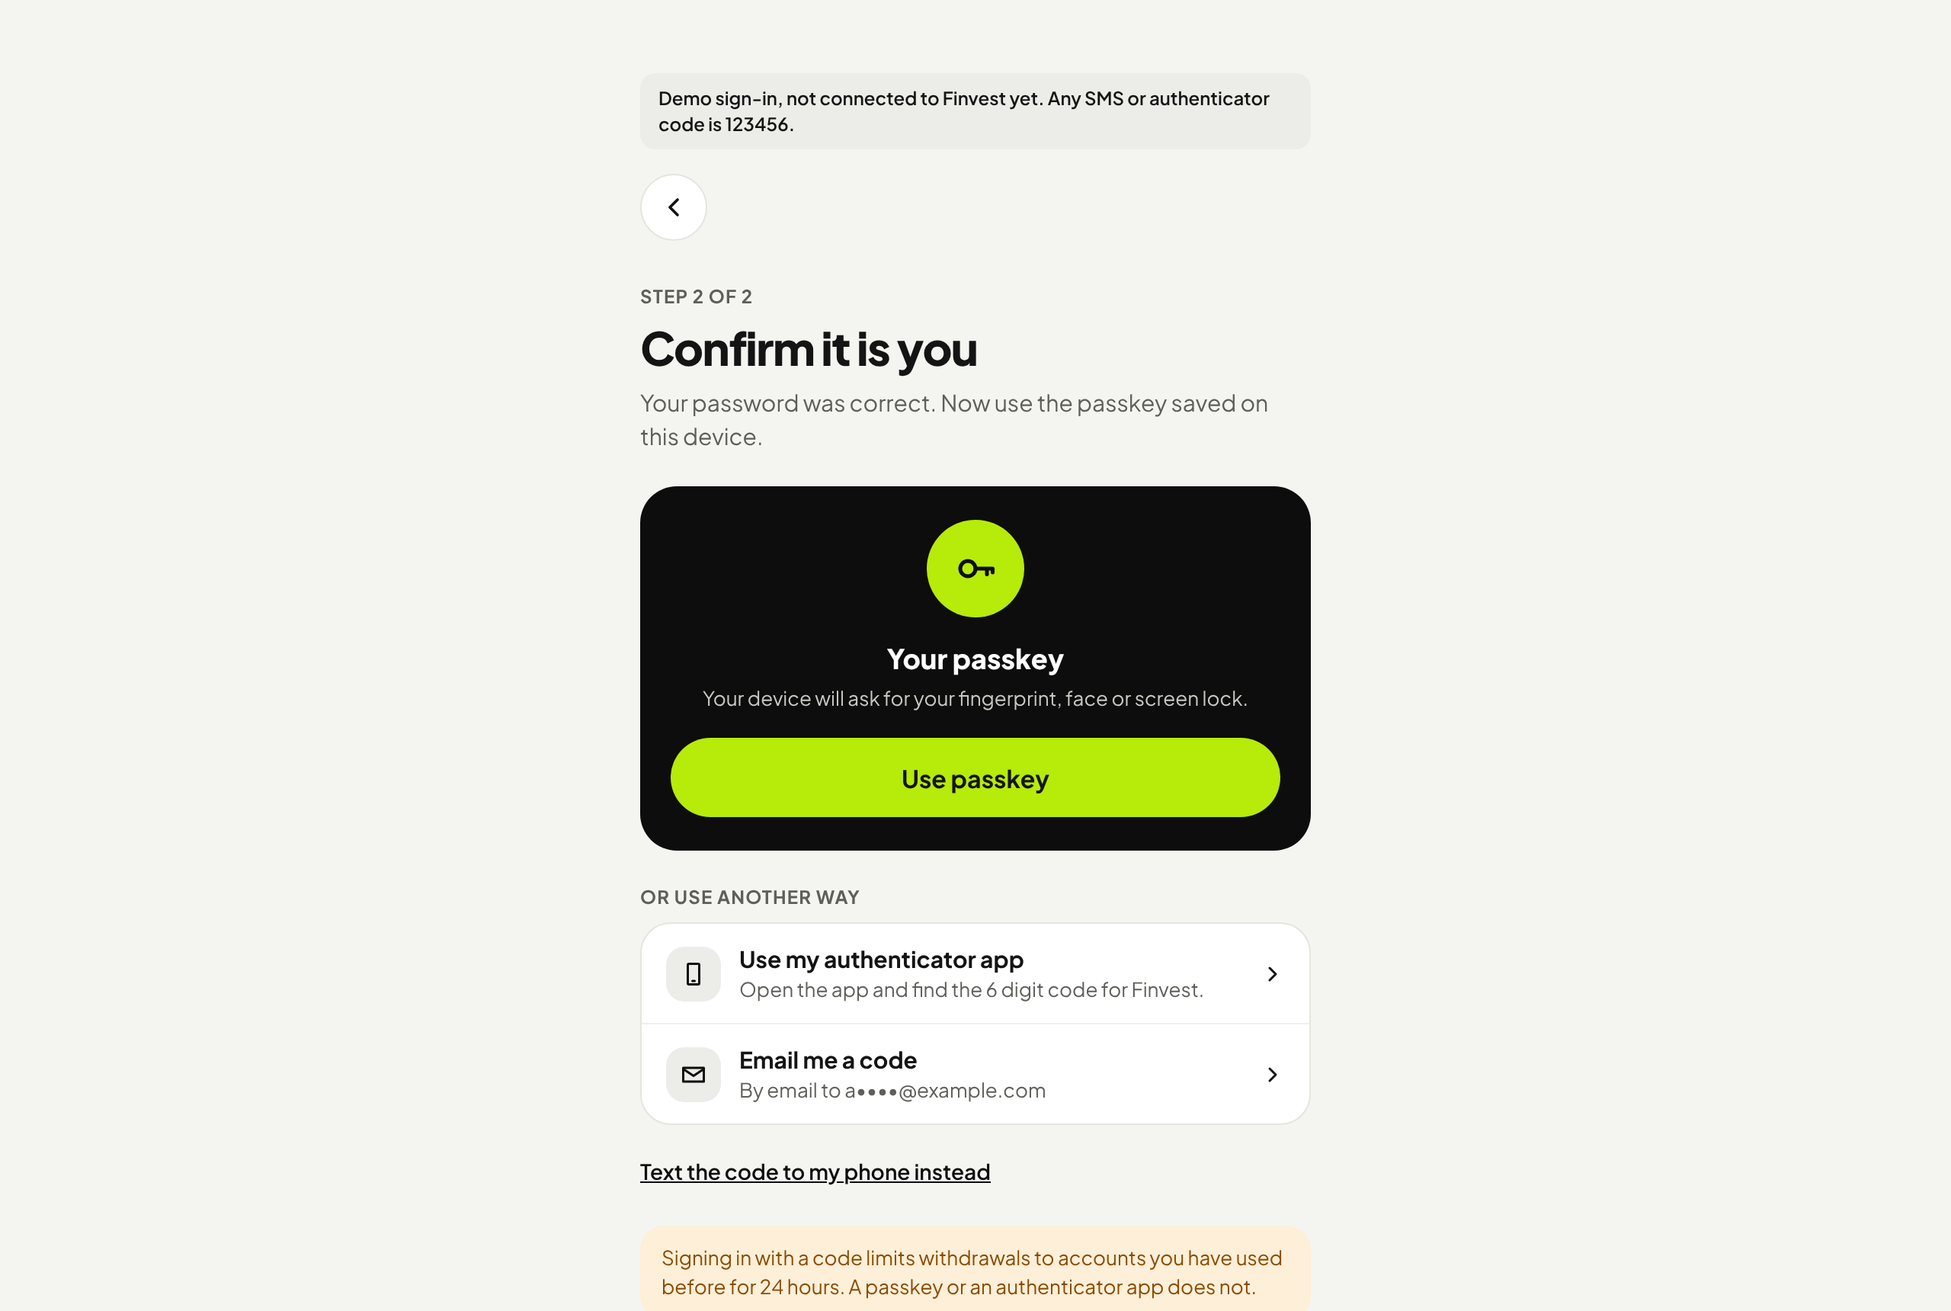
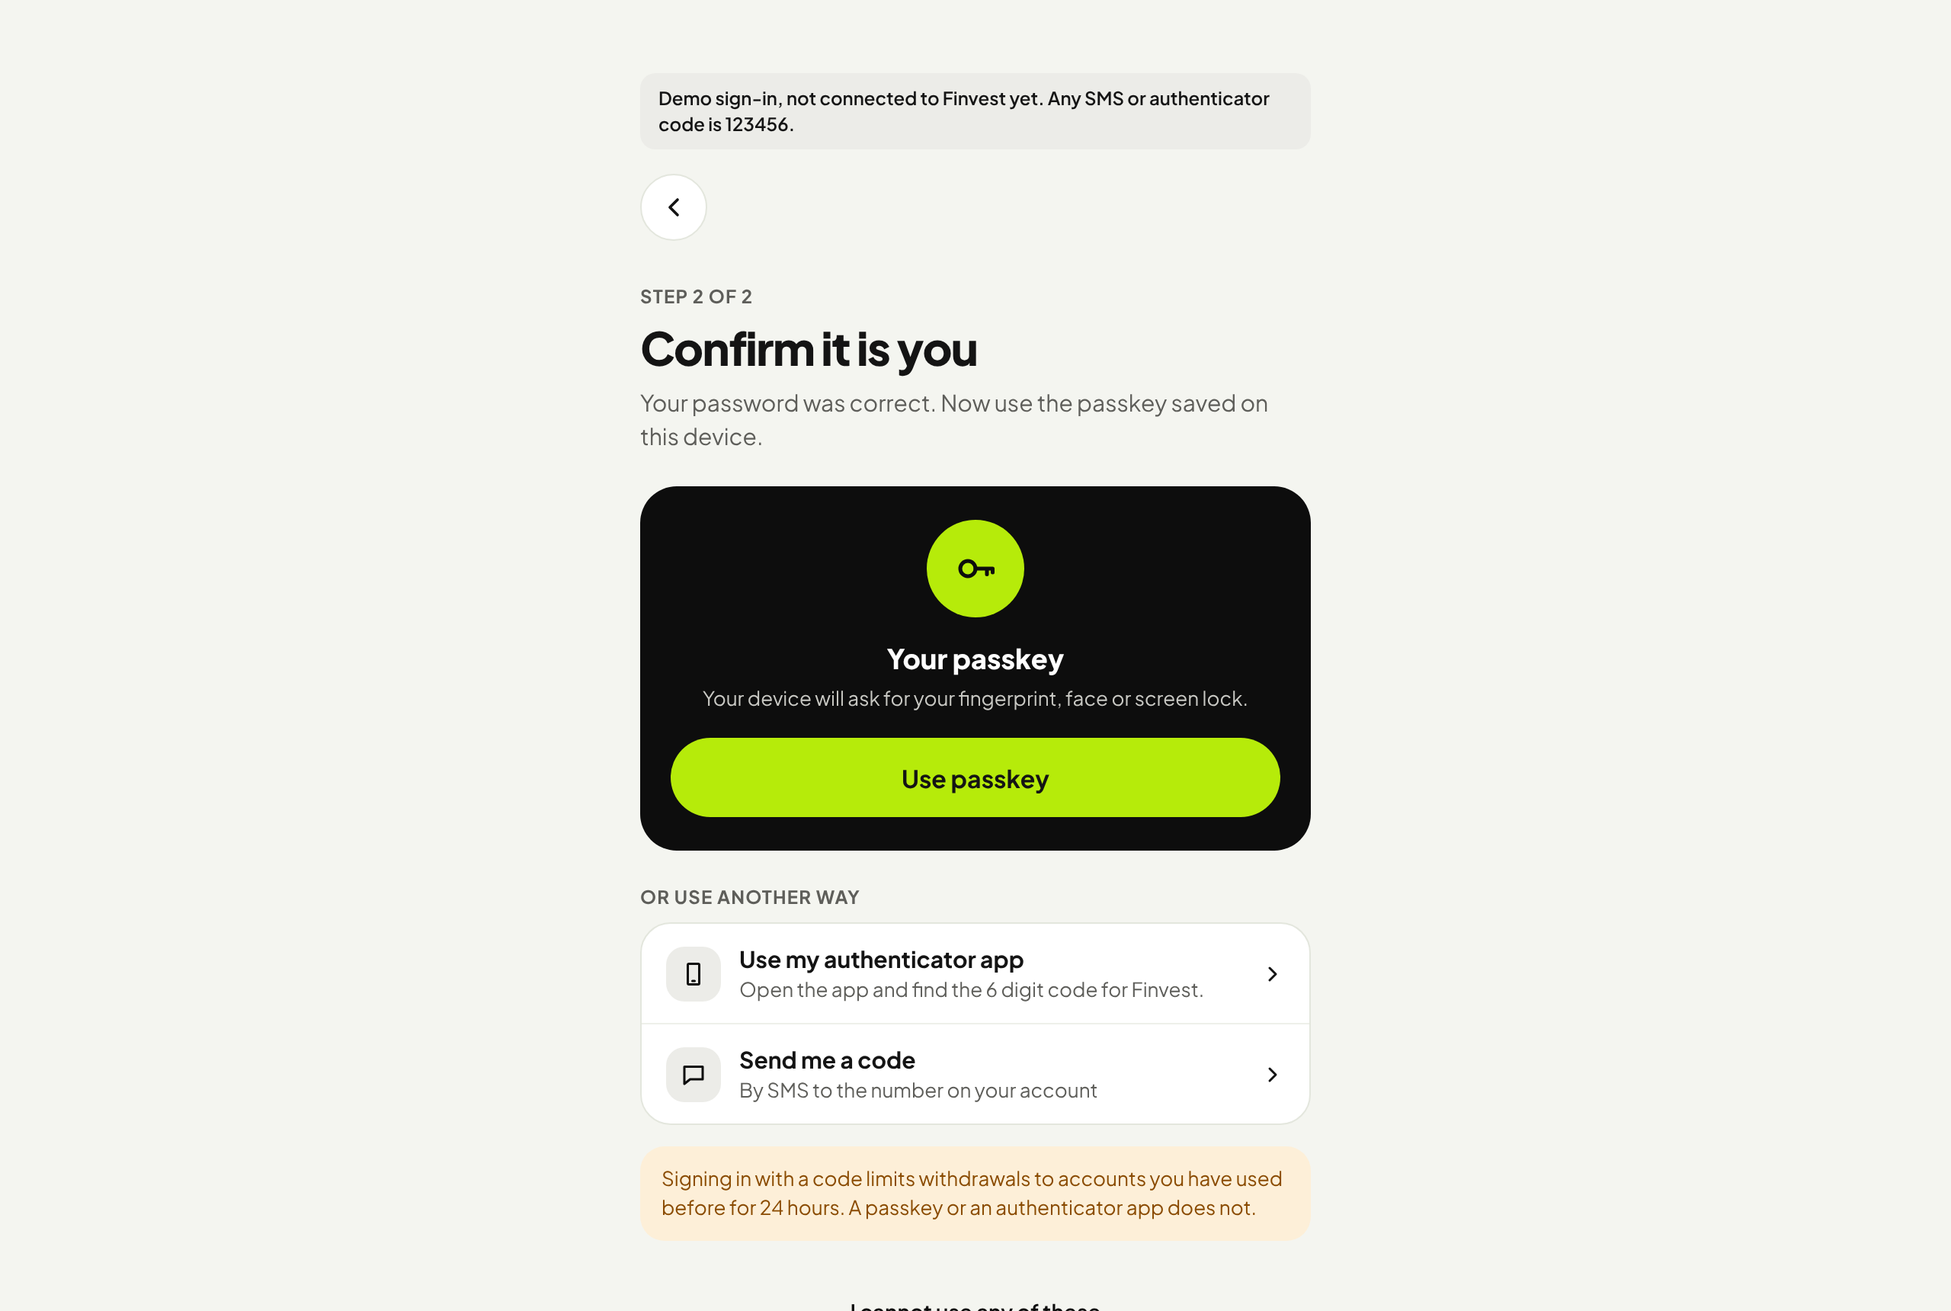
Email sign-in codes only to a proved address, and try every holder
Follow-ups from the review of the unconfirmed email log in. A code asked
for by email to an address the client has not proved is texted instead,
and the log in answer says whether a code can be emailed, so the app
offers the email only when it is proved. Several accounts may hold one
unproved address: the password is now tried against each of them (up to
three, newest first), so another account giving the same address cannot
shut the owner out of email log in.

Changed region(s): [[0.3438, 0.9552, 0.6562, 1.0], [0.3125, 0.8936, 0.6562, 0.9244], [0.3438, 0.8012, 0.5, 0.8628]]

diff --git a/apps/client/src/auth/__tests__/apiAuthClient.test.ts b/apps/client/src/auth/__tests__/apiAuthClient.test.ts
@@ -106,7 +106,7 @@ describe("the sign-in client for the real API", () => {
 
   it("logs in by a proved email and sends the code there", async () => {
     const seen = serve({
-      "POST /client/login/start": { status: 200, body: { login_id: ID, methods: ["code"] } },
+      "POST /client/login/start": { status: 200, body: { login_id: ID, methods: ["code"], email_codes: true } },
       "POST /client/login/code/send": { status: 204 },
     });
     const client = createApiAuthClient();
@@ -117,6 +117,12 @@ describe("the sign-in client for the real API", () => {
       { email: "amara@example.com", password: "pw" },
       { login_id: ID, channel: "email" },
     ]);
+  });
+
+  it("never offers to email a code to an address not proved yet", async () => {
+    serve({ "POST /client/login/start": { status: 200, body: { login_id: ID, methods: ["code"], email_codes: false } } });
+    const challenge = await createApiAuthClient().startLogin({ email: "amara@example.com" }, "pw");
+    expect(challenge).toEqual({ loginId: ID, phone: null, email: null, methods: ["code"] });
   });
 
   it("says an email log in was refused in words about the email", async () => {

diff --git a/apps/client/src/auth/__tests__/stubAuthClient.test.ts b/apps/client/src/auth/__tests__/stubAuthClient.test.ts
@@ -98,8 +98,10 @@ describe("log in", () => {
     // Joseph proved his address; Amara has not proved hers yet.
     const challenge = await auth.startLogin({ email: "Joseph@Example.com" }, DEMO_PASSWORD);
     expect(challenge).toMatchObject({ phone: null, email: "joseph@example.com" });
+    // Not proved, so no code goes to that address: it is texted instead.
     await expect(auth.startLogin({ email: "amara@example.com" }, DEMO_PASSWORD)).resolves.toMatchObject({
-      email: "amara@example.com",
+      phone: null,
+      email: null,
     });
     expect(await codeOf(auth.startLogin({ email: "amara@example.com" }, "wrong password"))).toBe(
       "invalid_email_credentials",

diff --git a/apps/client/src/auth/stubAuthClient.ts b/apps/client/src/auth/stubAuthClient.ts
@@ -463,7 +463,9 @@ export function createStubAuthClient(options: StubOptions = {}): AuthClient {
       }
       const loginId = nextId("login");
       logins.set(loginId, phone);
-      return { loginId, phone: byEmail ? null : phone, email, methods: methodsFor(account) };
+      // Like the API, a code is emailed only to a proved address.
+      const codeEmail = byEmail && account.emailVerified ? email : null;
+      return { loginId, phone: byEmail ? null : phone, email: codeEmail, methods: methodsFor(account) };
     },
 
     async verifyWithPasskey(loginId): Promise<Session> {

diff --git a/apps/client/src/auth/types.ts b/apps/client/src/auth/types.ts
@@ -135,7 +135,10 @@ export type LoginChallenge = {
   loginId: string;
   /** The number typed to log in. Null for a log in by email, which never shows the number. */
   phone: string | null;
-  /** The proved address typed to log in, so a code can go there. Null for a log in by number. */
+  /**
+   * The address typed to log in, when it is proved, so a code can go there.
+   * Null for a log in by number, or by an address not confirmed yet.
+   */
   email: string | null;
   /** Where the code was last sent, once one has been. */
   codeSentBy?: CodeChannel;

diff --git a/apps/client/src/__tests__/signInFlow.test.tsx b/apps/client/src/__tests__/signInFlow.test.tsx
@@ -95,6 +95,9 @@ describe("the shell, from the first screen", () => {
     await fireEvent.changeText(screen.getByTestId("password-input"), DEMO_PASSWORD);
     await fireEvent.press(screen.getByTestId("login-submit"));
     await screen.findByText("Confirm it is you");
+    // The address is not confirmed, so a code is texted, never emailed there.
+    expect(screen.queryByText(/By email to/)).toBeNull();
+    expect(screen.getByText("Send me a code")).toBeTruthy();
   });
 
   it("shows one message for a wrong password and stays on the form", async () => {

diff --git a/apps/client/src/auth/apiAuthClient.ts b/apps/client/src/auth/apiAuthClient.ts
@@ -150,7 +150,8 @@ export function createApiAuthClient(): AuthClient {
           return {
             loginId: result.login_id,
             phone: byEmail ? null : identifier.phone,
-            email: byEmail ? identifier.email.trim() : null,
+            // A code goes by email only to an address the client proved. Otherwise it is texted.
+            email: byEmail && result.email_codes ? identifier.email.trim() : null,
             methods: usable(result.methods),
           };
         } catch (error) {

diff --git a/packages/api-client/src/staff.gen.ts b/packages/api-client/src/staff.gen.ts
@@ -1872,6 +1872,7 @@ export const LoginPasskeyOptions = z.object({
 export type LoginPasskeyOptions = z.infer<typeof LoginPasskeyOptions>;
 
 export const LoginStarted = z.object({
+  email_codes: z.boolean().optional(),
   login_id: z.string(),
   methods: z.array(z.enum(["passkey", "authenticator", "code", "signup"])),
 });

diff --git a/packages/api-client/src/client.gen.ts b/packages/api-client/src/client.gen.ts
@@ -893,6 +893,7 @@ export const LoginPasskeyOptions = z.object({
 export type LoginPasskeyOptions = z.infer<typeof LoginPasskeyOptions>;
 
 export const LoginStarted = z.object({
+  email_codes: z.boolean().optional(),
   login_id: z.string(),
   methods: z.array(z.enum(["passkey", "authenticator", "code", "signup"])),
 });

diff --git a/backend/app/modules/identity/service.py b/backend/app/modules/identity/service.py
@@ -52,6 +52,8 @@ AccountKind = Literal["client", "staff"]
 ACCOUNT_FROM_ADDRESS_ATTEMPTS = 5
 ACCOUNT_ATTEMPTS = 20
 ADDRESS_ATTEMPTS = 50
+# Accounts tried for one email address that none of them has proved. Each costs a hash check.
+UNPROVED_HOLDERS_TRIED = 3
 TOUCH_INTERVAL = timedelta(minutes=1)
 # Approving another person's change needs a second step this recent.
 CONFIRMATION_WINDOW = timedelta(minutes=10)
@@ -69,6 +71,8 @@ class _PasswordMatch:
     id: str
     password_hash: str
     proved: bool
+    # The client has proved the email address on their account, so codes may go there.
+    email_proved: bool
 
 
 @dataclass(frozen=True, slots=True)
@@ -77,6 +81,8 @@ class LoginChallenge:
     methods: list[SecondStep]
     # The client, when they signed in by an email address they have not proved yet.
     unproved_email_of: str | None = None
+    # Whether a sign-in code may be emailed: only to an address the client proved.
+    email_codes: bool = False
 
 
 @dataclass(frozen=True, slots=True)
@@ -279,7 +285,10 @@ class IdentityService:
         logger.info("login_started", kind=kind, login_id=challenge_id)
         # In the order to offer them. The person finishes with any one.
         return LoginChallenge(
-            challenge_id, methods, unproved_email_of=None if account.proved else account.id
+            challenge_id,
+            methods,
+            unproved_email_of=None if account.proved else account.id,
+            email_codes=account.email_proved,
         )
 
     async def _check_password(
@@ -304,41 +313,75 @@ class IdentityService:
 
         if kind == "client" and by_email:
             # Only one account can prove an address, but several may hold it unproved. A proved
-            # holder answers for the address, and otherwise the newest account holding it.
+            # holder alone answers for the address. Otherwise every holder is tried, newest
+            # first, so another account giving the same address cannot shut the owner out.
             query = (
-                "SELECT id, phone, password_hash, email_verified_at IS NOT NULL AS proved "
+                "SELECT id, phone, password_hash, email_verified_at IS NOT NULL AS proved, "
+                "email_verified_at IS NOT NULL AS email_proved "
                 "FROM identity_clients WHERE email = :identifier AND status = 'active' "
-                "ORDER BY email_verified_at IS NOT NULL DESC, created_at DESC, id DESC LIMIT 1"
+                "ORDER BY email_verified_at IS NOT NULL DESC, created_at DESC, id DESC "
+                "LIMIT :holders"
             )
         elif kind == "client":
             query = (
-                "SELECT id, phone, password_hash, true AS proved FROM identity_clients "
+                "SELECT id, phone, password_hash, true AS proved, "
+                "email_verified_at IS NOT NULL AS email_proved FROM identity_clients "
                 "WHERE phone = :identifier AND status = 'active'"
             )
         else:
             query = (
-                "SELECT id, email AS phone, password_hash, true AS proved FROM identity_staff "
-                "WHERE email = :identifier AND status = 'active'"
+                "SELECT id, email AS phone, password_hash, true AS proved, false AS email_proved "
+                "FROM identity_staff WHERE email = :identifier AND status = 'active'"
             )
         async with self.database.transaction() as session:
-            account = (await session.execute(text(query), {"identifier": identifier})).one_or_none()
+            rows = list(
+                (
+                    await session.execute(
+                        text(query), {"identifier": identifier, "holders": UNPROVED_HOLDERS_TRIED}
+                    )
+                ).all()
+            )
+        if rows and rows[0].proved:
+            rows = rows[:1]
 
         # A client's attempts count against their number whichever way they sign in, so the
-        # email gives no second budget of guesses. An unknown address counts against itself.
-        counted = account.phone if account is not None and kind == "client" else identifier
-        account_key = throttle_key(f"{kind}-account", counted)
-        pair_key = throttle_key(f"{kind}-account-from", f"{counted}\x00{address}")
-        keys = [(account_key, ACCOUNT_ATTEMPTS), (pair_key, ACCOUNT_FROM_ADDRESS_ATTEMPTS)]
+        # email gives no second budget of guesses. A guess at an address several accounts hold
+        # counts against each of them. An unknown address counts against itself.
+        counted = [row.phone for row in rows] if rows and kind == "client" else [identifier]
+        own_keys = {
+            phone: [
+                throttle_key(f"{kind}-account", phone),
+                throttle_key(f"{kind}-account-from", f"{phone}\x00{address}"),
+            ]
+            for phone in counted
+        }
+        keys = [
+            (key, limit)
+            for account_key, pair_key in own_keys.values()
+            for key, limit in (
+                (account_key, ACCOUNT_ATTEMPTS),
+                (pair_key, ACCOUNT_FROM_ADDRESS_ATTEMPTS),
+            )
+        ]
         if address is not None:
             keys.append((throttle_key("address", address), ADDRESS_ATTEMPTS))
         await reserve_attempts(self.database, self.clock, keys)
 
-        hashed = account.password_hash if account is not None else None
-        if not await self.hasher.verify(password, hashed) or account is None:
+        # One hash check per holder, or one against nothing when there is none.
+        account = None
+        if not rows:
+            await self.hasher.verify(password, None)
+        for row in rows:
+            if await self.hasher.verify(password, row.password_hash):
+                account = row
+                break
+        if account is None:
             logger.info("login_refused", kind=kind, error_code="invalid_credentials")
             raise ApplicationError("invalid_credentials")
-        match = _PasswordMatch(account.id, account.password_hash, bool(account.proved))
-        return match, [account_key, pair_key]
+        match = _PasswordMatch(
+            account.id, account.password_hash, bool(account.proved), bool(account.email_proved)
+        )
+        return match, own_keys[account.phone if kind == "client" else identifier]
 
     # Sessions
 

diff --git a/backend/tests/integration/test_email_checks.py b/backend/tests/integration/test_email_checks.py
@@ -315,13 +315,66 @@ async def test_a_proved_holder_answers_for_an_address_another_holds_unproved(api
     await api.identity.create_client(
         phone=f"+256{number}", email=email, password="another-long-passphrase"
     )
-    # Unproved, the newest holder answers for the address.
+    # Unproved, every holder is tried, so each logs in with their own password.
     assert (await login_by_email(api, email, "another-long-passphrase")).status_code == 200
+    assert (await login_by_email(api, email)).status_code == 200
     assert (await prove(api, email, first)).status_code == 204
     # Then the proved holder does, so the other account's password is refused.
     other = await login_by_email(api, email, "another-long-passphrase")
     assert (other.status_code, other.json()["error"]["code"]) == (401, "invalid_credentials")
     assert (await login_by_email(api, email)).status_code == 200
+
+
+async def test_a_newer_unproved_holder_cannot_shut_the_older_one_out(api: Api) -> None:
+    _, email, _ = await a_client(api)
+    assert email is not None
+    api.clock.advance(seconds=1)
+    await api.identity.create_client(
+        phone=f"+256{next(_numbers)}", email=email, password="another-long-passphrase"
+    )
+    older = await login_by_email(api, email)
+    assert older.status_code == 200
+    neither = await login_by_email(api, email, "not-the-password-at-all")
+    assert (neither.status_code, neither.json()["error"]["code"]) == (401, "invalid_credentials")
+
+
+async def sent_codes(api: Api, channel: str) -> list[str]:
+    async with api.worker.transaction() as session:
+        rows = await session.execute(
+            text(
+                "SELECT recipient FROM notification_messages "
+                "WHERE channel = :channel AND template = 'sign_in_code' ORDER BY id"
+            ),
+            {"channel": channel},
+        )
+        return [row.recipient for row in rows]
+
+
+async def test_sign_in_codes_are_emailed_only_to_a_proved_address(api: Api) -> None:
+    client_id, email, bearer = await a_client(api)
+    assert email is not None
+    async with api.worker.transaction() as session:
+        contact = await client_contact(session, client_id)
+    assert contact is not None
+    unproved = await login_by_email(api, email)
+    assert unproved.json()["email_codes"] is False
+    asked = await api.http.post(
+        "/client/login/code/send",
+        json={"login_id": unproved.json()["login_id"], "channel": "email"},
+    )
+    assert asked.status_code == 204
+    # Asked for by email, but texted, because the address is not proved.
+    assert email not in await sent_codes(api, "email")
+    assert contact.phone in await sent_codes(api, "sms")
+
+    assert (await prove(api, email, bearer)).status_code == 204
+    proved = await login_by_email(api, email)
+    assert proved.json()["email_codes"] is True
+    await api.http.post(
+        "/client/login/code/send",
+        json={"login_id": proved.json()["login_id"], "channel": "email"},
+    )
+    assert email in await sent_codes(api, "email")
 
 
 async def test_login_takes_a_phone_or_an_email_not_both(api: Api) -> None:

diff --git a/backend/tests/integration/test_codes.py b/backend/tests/integration/test_codes.py
@@ -38,11 +38,15 @@ class Api:
     identity: IdentityService
     clock: FakeClock
     worker: Database
+    owner: Database
 
 
 @pytest.fixture
 async def api(
-    test_database: TestDatabase, app_database: Database, worker_database: Database
+    test_database: TestDatabase,
+    app_database: Database,
+    worker_database: Database,
+    migrator_database: Database,
 ) -> AsyncIterator[Api]:
     settings = test_database.settings("finvest_app").model_copy(
         update={"client_allowed_origins": [ORIGIN]}
@@ -57,7 +61,7 @@ async def api(
     async with httpx.AsyncClient(
         transport=transport, base_url="https://api", headers=address
     ) as http:
-        yield Api(http, app.state.identity, clock, worker_database)
+        yield Api(http, app.state.identity, clock, worker_database, migrator_database)
 
 
 def a_phone() -> str:
@@ -444,12 +448,23 @@ async def test_a_code_for_one_sign_in_does_not_finish_another(api: Api) -> None:
     assert (response.status_code, code(response)) == (410, "expired")
 
 
-async def test_the_code_goes_by_email_only_when_the_client_has_an_address(api: Api) -> None:
+async def test_the_code_goes_by_email_only_to_a_proved_address(api: Api) -> None:
     address = f"client{next(_numbers)}@example.com"
-    phone, _ = await a_client(api, address)
+    phone, client_id = await a_client(api, address)
+    # Not proved: a stranger could own a mistyped address, so the code is texted.
     login_id = await start_login(api, phone)
     await api.http.post("/client/login/code/send", json={"login_id": login_id, "channel": "email"})
-    assert await texted(api, phone) == []
+    assert await texted(api, address) == []
+    assert len(await texted(api, phone)) == 1
+
+    async with api.owner.transaction() as session:
+        await session.execute(
+            text("UPDATE identity_clients SET email_verified_at = now() WHERE id = :id"),
+            {"id": client_id},
+        )
+    login_id = await start_login(api, phone)
+    await api.http.post("/client/login/code/send", json={"login_id": login_id, "channel": "email"})
+    assert len(await texted(api, phone)) == 1
     [emailed] = await texted(api, address)
     assert (
         await api.http.post(

diff --git a/backend/app/modules/identity/codes.py b/backend/app/modules/identity/codes.py
@@ -363,11 +363,14 @@ class CodeService:
         async with self.database.transaction() as session:
             account = (
                 await session.execute(
-                    text("SELECT phone, email FROM identity_clients WHERE id = :id"),
+                    text(
+                        "SELECT phone, CASE WHEN email_verified_at IS NOT NULL THEN email END "
+                        "AS email FROM identity_clients WHERE id = :id"
+                    ),
                     {"id": actor.id},
                 )
             ).one()
-            # Email only if the client gave an address. Otherwise the code is texted.
+            # Email only to an address the client proved. Otherwise the code is texted.
             by_email = channel == "email" and account.email is not None
             await self._issue(
                 session,
